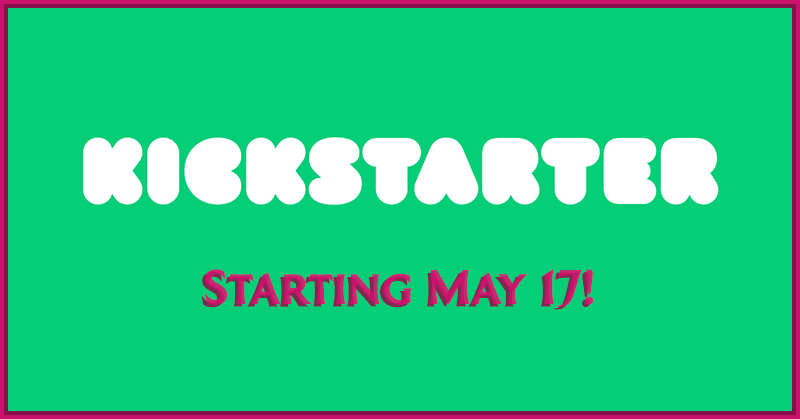
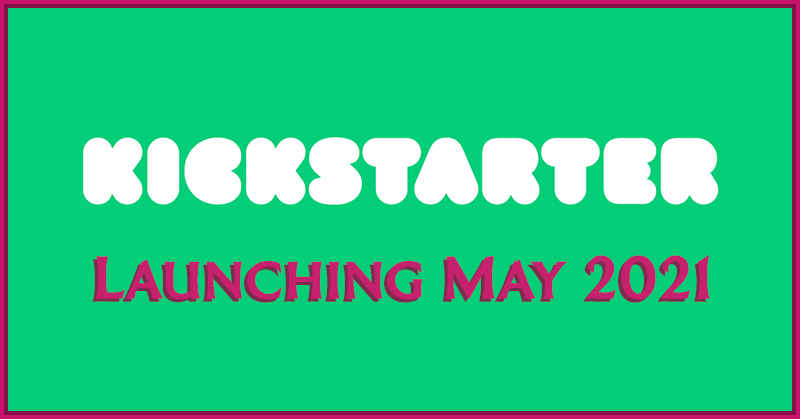
updating copy and fixing line spacing

Changed region(s): [[0.0938, 0.5895, 0.9062, 0.7446]]

diff --git a/build/index.html b/build/index.html
@@ -1,1 +1,1 @@
-<!doctype html><html lang="en"><head><meta charset="utf-8"/><link rel="icon" href="/favicon.ico"/><meta name="viewport" content="width=device-width,initial-scale=1"/><meta name="theme-color" content="#000000"/><meta name="description" content="Web site created using create-react-app"/><link rel="apple-touch-icon" href="/logo192.png"/><link rel="stylesheet" href="https://use.fontawesome.com/releases/v5.15.2/css/all.css" integrity="sha384-vSIIfh2YWi9wW0r9iZe7RJPrKwp6bG+s9QZMoITbCckVJqGCCRhc+ccxNcdpHuYu" crossorigin="anonymous"><link href="https://fonts.googleapis.com/css2?family=PT+Sans:wght@700&display=swap" rel="stylesheet"/><link rel="preconnect" href="https://fonts.gstatic.com"><link href="https://fonts.googleapis.com/css2?family=Jura:wght@300;400;500;600;700&display=swap" rel="stylesheet"><link rel="manifest" href="/manifest.json"/><script>!function(e,t,n,a,r,i){function m(){var e={a:arguments,q:[]},t=this.push(e);return"number"!=typeof t?t:m.bind(e.q)}e.MailerLiteObject=r,m.q=m.q||[],e.ml=e.ml||m.bind(m.q),e.ml.q=e.ml.q||m.q,i=t.createElement(n);var c=t.getElementsByTagName(n)[0];i.async=1,i.src="https://static.mailerlite.com/js/universal.js?v"+~~((new Date).getTime()/1e6),c.parentNode.insertBefore(i,c)}(window,document,"script",0,"ml");var ml_account=ml("accounts","2999389","t0d2h5x4r6","load")</script><title>Descendants Of Earth</title><link href="/static/css/main.f3fa6aa3.chunk.css" rel="stylesheet"></head><body><noscript>You need to enable JavaScript to run this app.</noscript><div id="root"></div><script>!function(e){function t(t){for(var n,i,l=t[0],f=t[1],a=t[2],c=0,s=[];c<l.length;c++)i=l[c],Object.prototype.hasOwnProperty.call(o,i)&&o[i]&&s.push(o[i][0]),o[i]=0;for(n in f)Object.prototype.hasOwnProperty.call(f,n)&&(e[n]=f[n]);for(p&&p(t);s.length;)s.shift()();return u.push.apply(u,a||[]),r()}function r(){for(var e,t=0;t<u.length;t++){for(var r=u[t],n=!0,l=1;l<r.length;l++){var f=r[l];0!==o[f]&&(n=!1)}n&&(u.splice(t--,1),e=i(i.s=r[0]))}return e}var n={},o={1:0},u=[];function i(t){if(n[t])return n[t].exports;var r=n[t]={i:t,l:!1,exports:{}};return e[t].call(r.exports,r,r.exports,i),r.l=!0,r.exports}i.m=e,i.c=n,i.d=function(e,t,r){i.o(e,t)||Object.defineProperty(e,t,{enumerable:!0,get:r})},i.r=function(e){"undefined"!=typeof Symbol&&Symbol.toStringTag&&Object.defineProperty(e,Symbol.toStringTag,{value:"Module"}),Object.defineProperty(e,"__esModule",{value:!0})},i.t=function(e,t){if(1&t&&(e=i(e)),8&t)return e;if(4&t&&"object"==typeof e&&e&&e.__esModule)return e;var r=Object.create(null);if(i.r(r),Object.defineProperty(r,"default",{enumerable:!0,value:e}),2&t&&"string"!=typeof e)for(var n in e)i.d(r,n,function(t){return e[t]}.bind(null,n));return r},i.n=function(e){var t=e&&e.__esModule?function(){return e.default}:function(){return e};return i.d(t,"a",t),t},i.o=function(e,t){return Object.prototype.hasOwnProperty.call(e,t)},i.p="/";var l=this["webpackJsonpdoe-website"]=this["webpackJsonpdoe-website"]||[],f=l.push.bind(l);l.push=t,l=l.slice();for(var a=0;a<l.length;a++)t(l[a]);var p=f;r()}([])</script><script src="/static/js/2.c174be9e.chunk.js"></script><script src="/static/js/main.d6623169.chunk.js"></script></body></html>
+<!doctype html><html lang="en"><head><meta charset="utf-8"/><link rel="icon" href="/favicon.ico"/><meta name="viewport" content="width=device-width,initial-scale=1"/><meta name="theme-color" content="#000000"/><meta name="description" content="Web site created using create-react-app"/><link rel="apple-touch-icon" href="/logo192.png"/><link rel="stylesheet" href="https://use.fontawesome.com/releases/v5.15.2/css/all.css" integrity="sha384-vSIIfh2YWi9wW0r9iZe7RJPrKwp6bG+s9QZMoITbCckVJqGCCRhc+ccxNcdpHuYu" crossorigin="anonymous"><link href="https://fonts.googleapis.com/css2?family=PT+Sans:wght@700&display=swap" rel="stylesheet"/><link rel="preconnect" href="https://fonts.gstatic.com"><link href="https://fonts.googleapis.com/css2?family=Jura:wght@300;400;500;600;700&display=swap" rel="stylesheet"><link rel="manifest" href="/manifest.json"/><script>!function(e,t,n,a,r,i){function m(){var e={a:arguments,q:[]},t=this.push(e);return"number"!=typeof t?t:m.bind(e.q)}e.MailerLiteObject=r,m.q=m.q||[],e.ml=e.ml||m.bind(m.q),e.ml.q=e.ml.q||m.q,i=t.createElement(n);var c=t.getElementsByTagName(n)[0];i.async=1,i.src="https://static.mailerlite.com/js/universal.js?v"+~~((new Date).getTime()/1e6),c.parentNode.insertBefore(i,c)}(window,document,"script",0,"ml");var ml_account=ml("accounts","2999389","t0d2h5x4r6","load")</script><title>Descendants Of Earth</title><link href="/static/css/main.ea0cb626.chunk.css" rel="stylesheet"></head><body><noscript>You need to enable JavaScript to run this app.</noscript><div id="root"></div><script>!function(e){function t(t){for(var n,i,l=t[0],f=t[1],a=t[2],c=0,s=[];c<l.length;c++)i=l[c],Object.prototype.hasOwnProperty.call(o,i)&&o[i]&&s.push(o[i][0]),o[i]=0;for(n in f)Object.prototype.hasOwnProperty.call(f,n)&&(e[n]=f[n]);for(p&&p(t);s.length;)s.shift()();return u.push.apply(u,a||[]),r()}function r(){for(var e,t=0;t<u.length;t++){for(var r=u[t],n=!0,l=1;l<r.length;l++){var f=r[l];0!==o[f]&&(n=!1)}n&&(u.splice(t--,1),e=i(i.s=r[0]))}return e}var n={},o={1:0},u=[];function i(t){if(n[t])return n[t].exports;var r=n[t]={i:t,l:!1,exports:{}};return e[t].call(r.exports,r,r.exports,i),r.l=!0,r.exports}i.m=e,i.c=n,i.d=function(e,t,r){i.o(e,t)||Object.defineProperty(e,t,{enumerable:!0,get:r})},i.r=function(e){"undefined"!=typeof Symbol&&Symbol.toStringTag&&Object.defineProperty(e,Symbol.toStringTag,{value:"Module"}),Object.defineProperty(e,"__esModule",{value:!0})},i.t=function(e,t){if(1&t&&(e=i(e)),8&t)return e;if(4&t&&"object"==typeof e&&e&&e.__esModule)return e;var r=Object.create(null);if(i.r(r),Object.defineProperty(r,"default",{enumerable:!0,value:e}),2&t&&"string"!=typeof e)for(var n in e)i.d(r,n,function(t){return e[t]}.bind(null,n));return r},i.n=function(e){var t=e&&e.__esModule?function(){return e.default}:function(){return e};return i.d(t,"a",t),t},i.o=function(e,t){return Object.prototype.hasOwnProperty.call(e,t)},i.p="/";var l=this["webpackJsonpdoe-website"]=this["webpackJsonpdoe-website"]||[],f=l.push.bind(l);l.push=t,l=l.slice();for(var a=0;a<l.length;a++)t(l[a]);var p=f;r()}([])</script><script src="/static/js/2.c174be9e.chunk.js"></script><script src="/static/js/main.d6623169.chunk.js"></script></body></html>

diff --git a/src/components/pages/TheTeam.js b/src/components/pages/TheTeam.js
@@ -1,0 +1,56 @@
+import React from 'react';
+import './PressKit.css';
+import '../../App.css';
+import Textbox from '../Textbox';
+import Titlebox from '../Titlebox';
+import Background from '../../images/backgrounds/shot_aurora2_crop.png';
+
+function TheTeam () {
+    return (
+        <>
+            <img className='background-animation' src={Background} alt='No Image' />
+            <div className='page-container'>
+                <Titlebox>
+                    <h2 className="titlebox">The Team</h2>
+                </Titlebox>
+                <Textbox>
+                    <p>
+                    Descendants Of Earth is an international startup formed in 2019 and built from a team spanning Australia and the United States. <br /><br />
+                    </p> <br />
+                    <center><h2>The Team</h2></center>
+                    <p>
+                        <strong>Natalia Shafa</strong> (USA), <i>Co-Founder</i> <br />
+                        Climate fiction author, marketing veteran and serial innovator. 
+                        Natalia has helped design and write DOE while leading our outreach campaign.
+                    </p> <br />
+                    <p>
+                        <strong>Edmund Weir</strong> (AUS), <i>Co-Founder</i> <br />
+                        Urban planner, environmentalist and software developer. 
+                        Edmund has also helped design and write DOE while leading our website and app development. 
+                        He also assists with environmental impact valuations.
+                    </p> <br />
+                    <p>
+                        DOE could not be what it is without the help of the <a href='www.landingsitestudios.com' target='_blank'>Landing Site Studios Collective</a>, which includes the following artists:
+                    </p> <br />
+                    <p>
+                        <strong>Ian Helm</strong> (USA)<br />
+                        Creative powerhouse and conjurer of the weird and wonderful. 
+                        Ian has helped visualise the future world of DOE with his drawings, models, animations, characters and writing as our resident art director.
+                    </p> <br />
+                    <p>
+                        <strong>Sarajane Helm</strong> (USA)<br />
+                        Wielding an unbeatable eye for detail and a library of homegrown textures, 
+                        Sarajane brings that extra crunchy layer of realism and delightfully playful flourish to our characters, environments and text.
+                    </p> <br />
+                    <p>
+                        <strong>Bryan Helm</strong> (USA)<br />
+                        Prepare to go on an inter-dimensional journey as Bryan redefines what music can be and 
+                        explores the uplifting effect it can have on the mind. In doing so he provides a soundtrack to DOE that is like no other.
+                    </p> <br />
+                </Textbox>        
+            </div>        
+        </>
+    )
+}
+
+export default TheTeam;

diff --git a/src/components/Footer.js b/src/components/Footer.js
@@ -14,23 +14,23 @@ function Footer() {
                 <div className='footer-link-wrapper'>
                     <div className='footer-link-items'>
                         <h2>About</h2>
-                        <Link to='/welcome-to-country' onClick={scrollToTop}>Welcome To Country</Link>
-                        <Link to='/' onClick={scrollToTop}>Our Team</Link>
+                        <Link onClick={scrollToTop} to='/welcome-to-country' >Welcome To Country</Link>
+                        <Link onClick={scrollToTop} to='/the-team' >The Team</Link>
                     </div>
                 </div>
                 <div className='footer-link-wrapper'>
                     <div className='footer-link-items'>
                         <h2>Contacts</h2>
-                        <Link to='/contact' onClick={scrollToTop}>Contact Form</Link>
-                        <Link to='/volunteers' onClick={scrollToTop}>Volunteers</Link>
-                        <Link to='/sponsors' onClick={scrollToTop}>Sponsors</Link>
+                        <Link onClick={scrollToTop} to='/contact' >Contact Form</Link>
+                        <Link onClick={scrollToTop} to='/volunteers' >Volunteers</Link>
+                        <Link onClick={scrollToTop} to='/sponsors' >Sponsors</Link>
                     </div>
                 </div>
             </div> 
             <section className='social-media'>
                 <div className='social-media-wrap'>
                     <div className='footer-logo'>
-                        <Link to='/' onClick={scrollToTop}>
+                        <Link onClick={scrollToTop} to='/' >
                             <img className='thumbnail-logo' src={Logo} alt='Descendants Of Earth'/>
                         </Link>
                     </div>

diff --git a/src/components/pages/Home.js b/src/components/pages/Home.js
@@ -18,18 +18,18 @@ function Home () {
 
             <Textbox>
                 <h2 className='textbox-heading'>
-                    Greetings Ancestor!
+                    Greetings, ancestor!
                 </h2><br />
                 <p> We are your descendants from the year 2412 and we need your help to save life on Earth.
                 </p><br />
                 <p>
-                    In the future climate change has reshaped Earth into an uninhabitable wasteland. The only way we can change the timeline we are on now is to change the past itself - starting with the year 2021.
+                    Here in the future, climate change has reshaped Earth into an uninhabitable wasteland. The only way we can change the timeline we are on now is to change the past itself - starting with the year 2021.
                 </p><br />
                 <p>
                     We have been constructing a Time Pump that can be used to send resources saved through real environmental action into the future to help us regenerate the planet.
                 </p><br />
                 <p>
-                    We’re running out of time. Quick, sign up for access to the Time Pump when it goes live!
+                    We are running out of time. Quick, sign up for access to the Time Pump when it goes live!
                 </p>
             </Textbox>
 

diff --git a/src/components/pages/Kickstarter.css b/src/components/pages/Kickstarter.css
@@ -23,26 +23,26 @@
 }
 
 h1 {
-    color: rgb(253, 241, 128);
-    font-family: 'Jura', sans-serif;
-    align-self: center;
-    text-align: center;
-    margin-left: auto;
-    margin-right: auto;
-    width: 80%;
-    background-position-x: center;
-  }
+  color: rgb(253, 241, 128);
+  font-family: 'Jura', sans-serif;
+  align-self: center;
+  text-align: center;
+  margin-left: auto;
+  margin-right: auto;
+  width: 80%;
+  background-position-x: center;
+}
 
-  hr {
-    color: rgb(253, 241, 128);
-  }
+hr {
+  color: rgb(253, 241, 128);
+}
 
-  @media only screen and (max-width: 1024px) {
-    .titlebox-text {
-        font-size: 3vh;
-        line-height: 3.5vh;
-        color: rgb(253, 241, 128);
-        text-align: center;
-        margin-top: -4px;
-    }
+@media only screen and (max-width: 900px) {
+  #titlebox-text {
+      font-size: 4.5vh;
+      line-height: 5vh;
+      color: rgb(253, 241, 128);
+      text-align: center;
+      margin-top: -4px;
   }
+}

diff --git a/src/App.js b/src/App.js
@@ -11,6 +11,7 @@ import WelcomeToCountry from './components/pages/WelcomeToCountry';
 import Contact from './components/pages/Contact';
 import Volunteers from './components/pages/Volunteers';
 import Sponsors from './components/pages/Sponsors';
+import TheTeam from './components/pages/TheTeam';
 import UpdatesNewWebsite from './components/pages/updates/NewWebsite';
 import UpdatesGooglePlay from './components/pages/updates/GooglePlay';
 import Footer from './components/Footer';
@@ -31,6 +32,7 @@ function App() {
             <Route path='/contact' component={Contact} />
             <Route path='/volunteers' component={Volunteers} />
             <Route path='/sponsors' component={Sponsors} />
+            <Route path='/the-team' component={TheTeam} />
             <Route path='/trello' component={() => { 
               window.open('https://trello.com/b/pNT6IwgE/descendants-of-earth', '_blank');
               window.location.assign('https://descendantsofearth.com');

diff --git a/src/components/pages/WelcomeToCountry.js b/src/components/pages/WelcomeToCountry.js
@@ -16,7 +16,7 @@ function PressKit () {
                 <Textbox>
                     <p>
                         The team at Descendants Of Earth wish to acknowledge the traditional owners of the land upon which this project was largely developed, specifically the Djadjawurung, Taungurong, Woiworung and Boonwurrung Nations from the broader Kulin Alliance. 
-                        We are humbled by their understanding of and continuing connection to land, culture and community, and remember that sovereignty was neved ceded in Australia.
+                        We are humbled by their understanding of and continuing connection to the land, and remember that sovereignty was neved ceded in Australia.
                     </p> <br />
                     <p>
                         Indigenous people have always been the original environmental protectors, and indigenous knowledge is an essential part of any sustainable future on Earth.

diff --git a/src/components/pages/Sponsors.js b/src/components/pages/Sponsors.js
@@ -15,7 +15,7 @@ function Sponsors () {
                 </Titlebox>
                 <Textbox>
                     <p>
-                        Pioneering environmental initiatives and fancy time pumps don't just appear from nowhere - they are made by a small but dedicated team of people that need to feed and house themselves!
+                        Fancy time pumps don't just appear from nowhere - they are made by a small but dedicated team of people that need to feed and house themselves!
                     </p> <br />
                     <p>
                         If you are interested in sponsoring Descendants Of Earth, please send an email to contact@descendantsofearth.com and we will be in touch.

diff --git a/src/components/pages/Mission.js b/src/components/pages/Mission.js
@@ -14,6 +14,9 @@ function Mission () {
                     <h2>Mission</h2>
                 </Titlebox>
                 <Textbox>
+                    <center><h1 className="mission-statement">Our mission is to make environmental action fun and accessible in order to reach the critical mass of participation needed to prevent irreversible climate change and repair Earth’s ecosystems.</h1></center>
+                </Textbox>
+                <Textbox>
                     <h2>What is Descendants Of Earth?</h2>
                     <br />
                     <p>

diff --git a/src/components/pages/PressKit.css b/src/components/pages/PressKit.css
@@ -37,6 +37,7 @@
     color: rgb(253, 241, 128);
     font-family: 'Jura', sans-serif;
     font-size: 6vh;
+    line-height: 6.6vh;
     align-self: center;
     text-align: center;
     margin-left: auto;
@@ -66,4 +67,18 @@
     align-self: left;
     align-items: left;
     margin: 0;
+  }
+
+  @media only screen and (max-width: 1024px) {
+    .press-kit-heading {
+      font-size: 4vh;
+      line-height: 4.5vh;
+      width: 100%;
+    }
+  
+  .press-kit-subheading {
+      font-size: 3.6vh;
+      line-height: 4vh;
+      width: 100%;
+    }
   }

diff --git a/src/components/pages/Kickstarter.js b/src/components/pages/Kickstarter.js
@@ -11,7 +11,7 @@ function Kickstarter () {
             <img className='background-animation' src={Background} alt='No Image' />
             <div className='page-container'  onLoad={scrollToTop}>
                 <Titlebox>
-                    <h2 className='titlebox-text'>Kickstarter</h2>
+                    <h2 id='titlebox-text'>Kickstarter</h2>
                 </Titlebox>
                 <Textbox>
                     <p>

diff --git a/src/components/Cards.js b/src/components/Cards.js
@@ -35,7 +35,7 @@ function Cards() {
                         />
                         <CardItem 
                             src={Kickstarter}
-                            text='Campaign launching next month!'
+                            text='Campaign launching this month!'
                             label='Crowdfunding'
                             path='/kickstarter'
                         />
